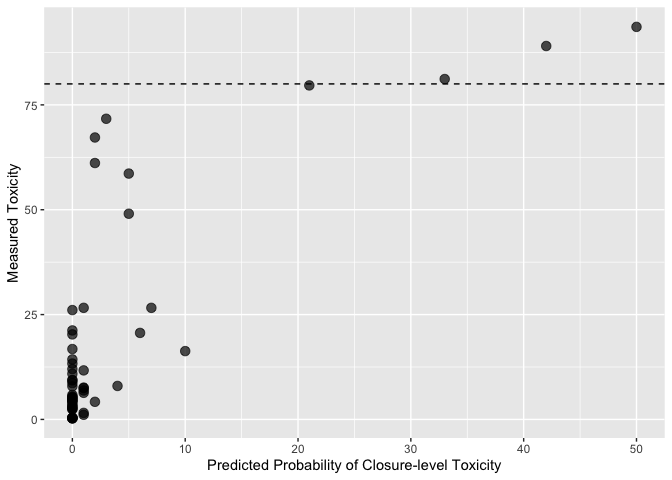
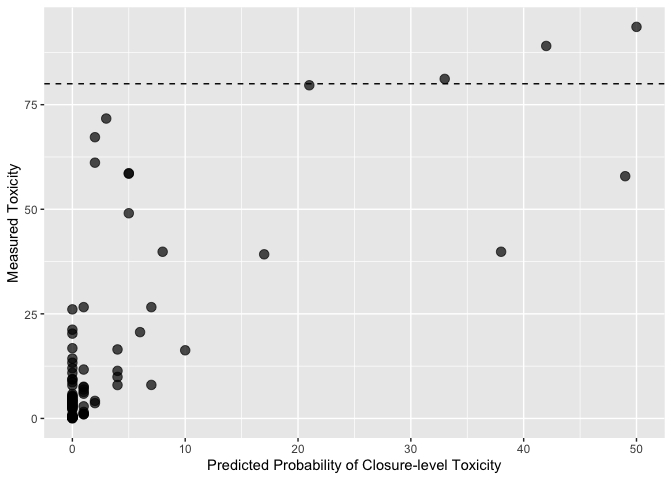
Adding 25 new PSP predictions on 2024-06-07

diff --git a/README.md b/README.md
@@ -72,7 +72,7 @@ predictions <- read_forecast(year = "2024") |>
 glimpse(predictions)
 ```
 
-    ## Rows: 90
+    ## Rows: 115
     ## Columns: 19
     ## $ version             <chr> "v0.3.0", "v0.3.0", "v0.3.0", "v0.3.0", "v0.3.0", …
     ## $ ensemble_n          <dbl> 10, 10, 10, 10, 10, 10, 10, 10, 10, 10, 10, 10, 10…
@@ -107,7 +107,7 @@ glimpse(predictions)
     ## # A tibble: 1 × 1
     ##   accuracy
     ##      <dbl>
-    ## 1    0.673
+    ## 1    0.729
 
 #### Closure-level (Class 3) Predictions
 
@@ -128,7 +128,7 @@ glimpse(predictions)
     ## # A tibble: 1 × 7
     ##      tp    fp    tn    fn precision sensitivity specificity
     ##   <int> <int> <int> <int>     <dbl>       <dbl>       <dbl>
-    ## 1     1     0    52     2         1       0.333           1
+    ## 1     1     1    81     2       0.5       0.333       0.988
 
 ## 2023 Season Results
 
@@ -272,4 +272,4 @@ predictions <- read_forecast(year = "2023")
 
 ### Last Updated
 
-    ## [1] "2024-05-31"
+    ## [1] "2024-06-07"
